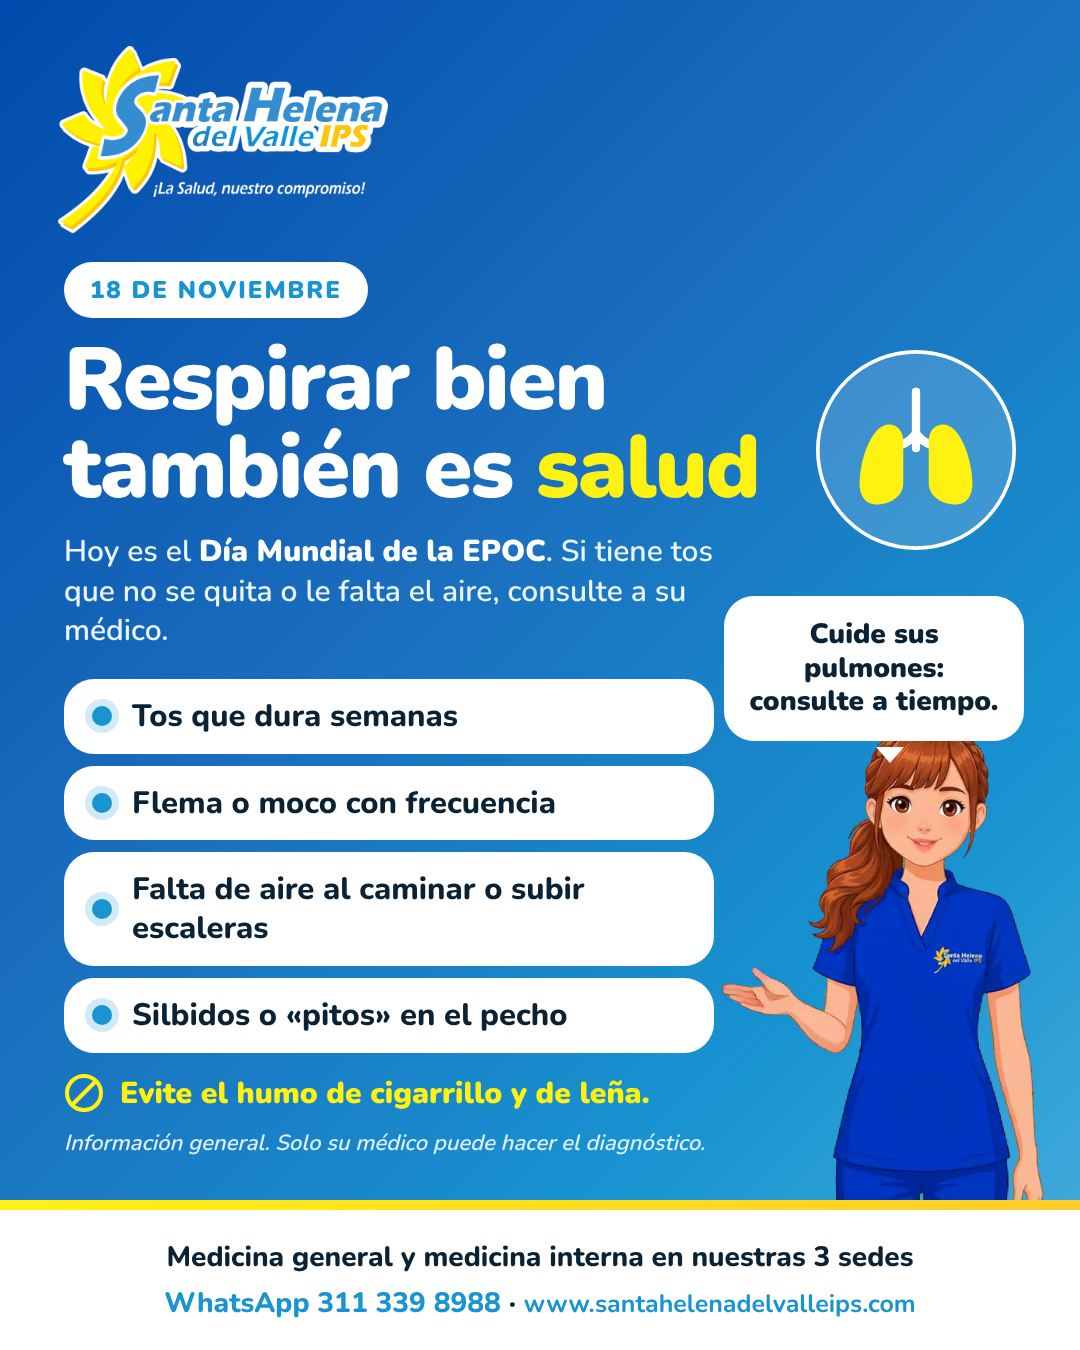
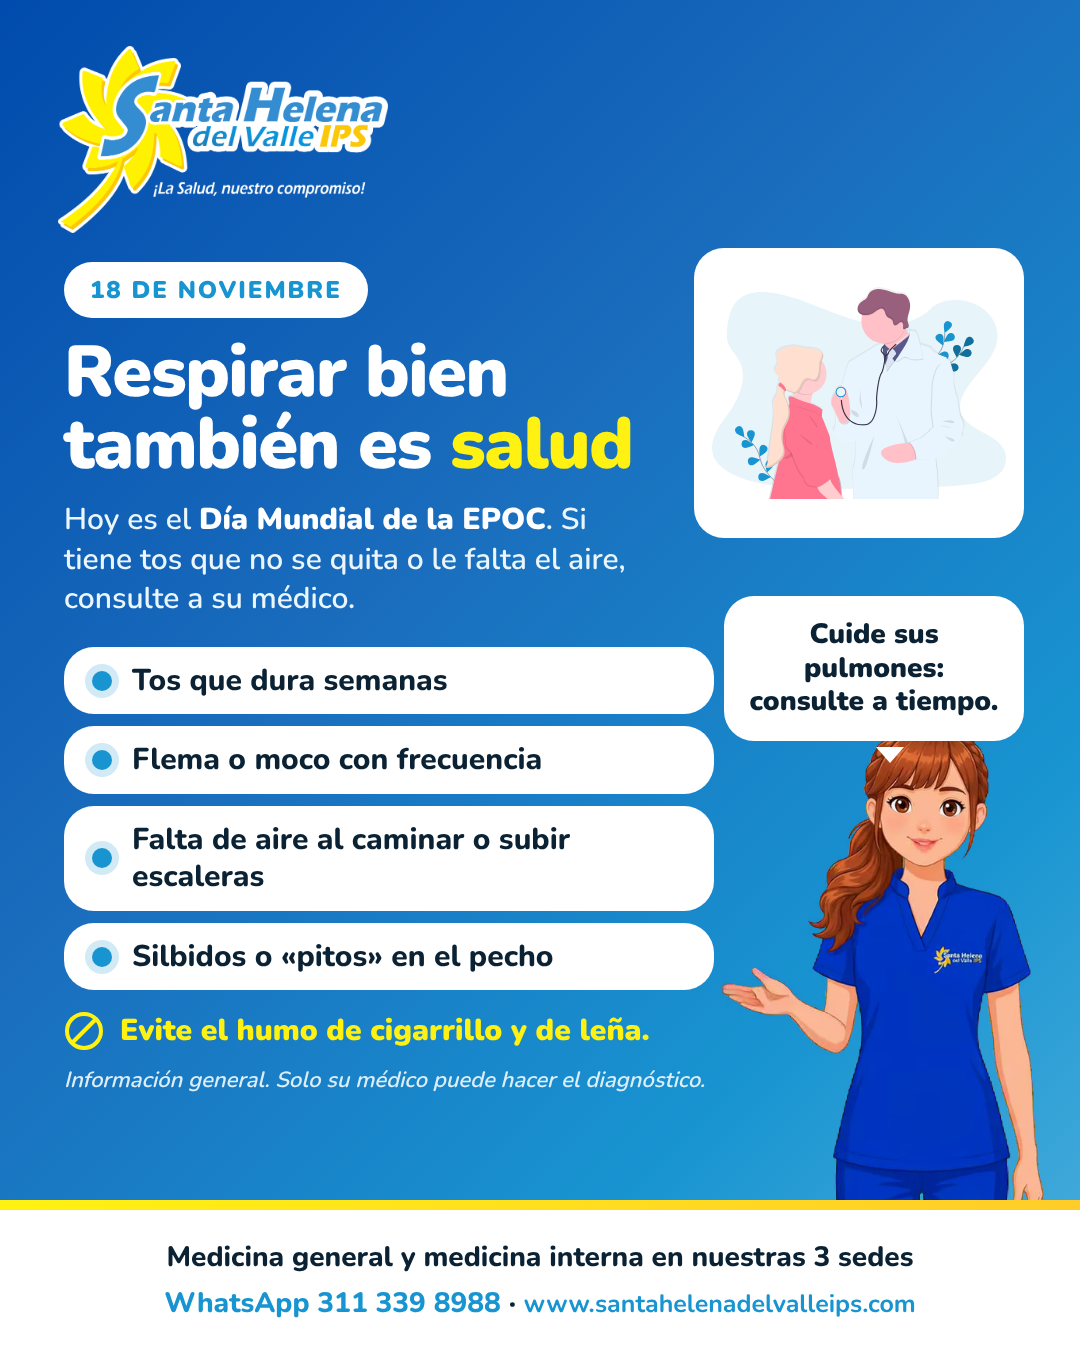
Post EPOC v2: ilustración de unDraw en lugar del ícono, antes y después
Claude-Session: https://claude.ai/code/session_01KgBCaN2Nb7mn6jAyyriR7q

Changed region(s): [[0.0611, 0.1867, 0.9472, 0.8711]]

diff --git a/entregas/creativo-instagram/2026-11-18-post-dia-epoc/fuente/post-v1-iconos.html b/entregas/creativo-instagram/2026-11-18-post-dia-epoc/fuente/post-v1-iconos.html
@@ -1,0 +1,56 @@
+<!doctype html><html lang="es"><head><meta charset="utf-8"><title>Post Día de la EPOC</title><style>
+/* Fuente provisional (parecida a Eras ITC) hasta recibir las oficiales */
+@font-face{font-family:"Provisional";src:url(img/nunito.woff2) format("woff2");font-weight:200 1000}
+*{margin:0;padding:0;box-sizing:border-box}
+body{background:#888;padding:30px}
+#post{width:1080px;height:1350px;position:relative;overflow:hidden;font-family:Provisional,sans-serif;color:#fff;
+ background:linear-gradient(135deg,#004BAD 0%,#1A6DBD 40%,#1894D1 75%,#4CAFDC 100%)}
+.logo{position:absolute;left:58px;top:46px;width:330px}
+.cont{position:absolute;left:64px;right:64px;top:262px}
+.tag{display:inline-block;background:#fff;color:#1894D1;font-weight:900;font-size:24px;letter-spacing:.08em;text-transform:uppercase;padding:12px 26px;border-radius:999px}
+h1{margin-top:18px;font-weight:900;font-size:88px;letter-spacing:-.02em;line-height:1}
+h1 span{color:#FFF212}
+.apoyo{margin-top:20px;width:700px;font-size:30px;line-height:1.32;font-weight:600;color:#EAF5FC}
+.apoyo b{color:#fff;font-weight:900}
+.icono{position:absolute;right:64px;top:350px;width:200px;height:200px}
+ul{list-style:none;margin-top:28px;width:650px;display:flex;flex-direction:column;gap:12px}
+li{background:#fff;color:#0A2233;border-radius:30px;padding:18px 28px;font-size:31px;line-height:1.25;font-weight:800;display:flex;gap:20px;align-items:center}
+li::before{content:"";flex:none;width:20px;height:20px;border-radius:50%;background:#1894D1;box-shadow:0 0 0 7px rgba(24,148,209,.2)}
+.humo{margin-top:20px;width:660px;display:flex;align-items:center;gap:16px;font-size:30px;font-weight:900;color:#FFF212}
+.nota{margin-top:14px;font-size:22px;font-style:italic;font-weight:600;color:#DCEEF8}
+.hel{position:absolute;right:-120px;bottom:96px;width:560px;height:560px;object-fit:contain}
+.globo{position:absolute;right:56px;top:596px;width:300px;background:#fff;color:#0A2233;border-radius:30px;padding:22px 24px;font-size:28px;line-height:1.2;font-weight:900;text-align:center}
+.globo::after{content:"";position:absolute;right:120px;bottom:-22px;border:14px solid transparent;border-top:16px solid #fff;border-bottom:0}
+.franja{position:absolute;left:0;right:0;bottom:0;height:140px;background:#fff;color:#0A2233;display:flex;flex-direction:column;justify-content:center;align-items:center;gap:8px;font-size:28px;font-weight:800}
+.franja .wa{color:#1894D1}
+.franja .web{font-size:25px;font-weight:700;color:#1894D1}
+.amarilla{position:absolute;left:0;right:0;bottom:140px;height:10px;background:linear-gradient(90deg,#FFF212,#FFCC29)}
+</style></head><body>
+<section id="post">
+  <img class="logo" src="img/logo-con-lema-transparente.png">
+  <div class="icono"><svg viewBox="0 0 220 220" width="200" height="200"><circle cx="110" cy="110" r="108" fill="rgba(255,255,255,.16)" stroke="#fff" stroke-width="4"/>
+    <path d="M110 46v62M110 92c-8 10-18 14-26 14M110 92c8 10 18 14 26 14" fill="none" stroke="#fff" stroke-width="9" stroke-linecap="round"/>
+    <path d="M96 100c0-10-6-18-16-18-16 0-30 30-32 62-1 16 6 26 18 26 14 0 30-8 30-24z" fill="#FFF212"/>
+    <path d="M124 100c0-10 6-18 16-18 16 0 30 30 32 62 1 16-6 26-18 26-14 0-30-8-30-24z" fill="#FFF212"/>
+    <path d="M110 46v54" fill="none" stroke="#fff" stroke-width="9" stroke-linecap="round"/></svg></div>
+  <div class="cont">
+    <span class="tag">18 de noviembre</span>
+    <h1>Respirar bien<br>también es <span>salud</span></h1>
+    <p class="apoyo">Hoy es el <b>Día Mundial de la EPOC</b>. Si tiene tos que no se quita o le falta el aire, consulte a su médico.</p>
+    <ul>
+      <li>Tos que dura semanas</li>
+      <li>Flema o moco con frecuencia</li>
+      <li>Falta de aire al caminar o subir escaleras</li>
+      <li>Silbidos o «pitos» en el pecho</li>
+    </ul>
+    <p class="humo"><svg width="40" height="40" viewBox="0 0 40 40"><circle cx="20" cy="20" r="17" fill="none" stroke="#FFF212" stroke-width="4"/><path d="M8 32L32 8" stroke="#FFF212" stroke-width="4"/></svg>Evite el humo de cigarrillo y de leña.</p>
+    <p class="nota">Información general. Solo su médico puede hacer el diagnóstico.</p>
+  </div>
+  <img class="hel" src="img/helenita-hablar.png">
+  <div class="globo">Cuide sus pulmones: consulte a tiempo.</div>
+  <div class="amarilla"></div>
+  <div class="franja">
+    <div>Medicina general y medicina interna en nuestras 3 sedes</div>
+    <div><span class="wa">WhatsApp 311 339 8988</span> · <span class="web">www.santahelenadelvalleips.com</span></div>
+  </div>
+</section></body></html>

diff --git a/entregas/creativo-instagram/2026-11-18-post-dia-epoc/fuente/post.html b/entregas/creativo-instagram/2026-11-18-post-dia-epoc/fuente/post.html
@@ -10,11 +10,12 @@ body{background:#888;padding:30px}
 .tag{display:inline-block;background:#fff;color:#1894D1;font-weight:900;font-size:24px;letter-spacing:.08em;text-transform:uppercase;padding:12px 26px;border-radius:999px}
 h1{margin-top:18px;font-weight:900;font-size:88px;letter-spacing:-.02em;line-height:1}
 h1 span{color:#FFF212}
-.apoyo{margin-top:20px;width:700px;font-size:30px;line-height:1.32;font-weight:600;color:#EAF5FC}
+.apoyo{margin-top:20px;width:590px;font-size:30px;line-height:1.32;font-weight:600;color:#EAF5FC}
 .apoyo b{color:#fff;font-weight:900}
-.icono{position:absolute;right:64px;top:350px;width:200px;height:200px}
+.escena{position:absolute;right:56px;top:248px;width:330px;height:290px;background:#fff;border-radius:30px;padding:18px;display:flex;align-items:center;justify-content:center}
+.escena img{width:100%;height:100%;object-fit:contain}
 ul{list-style:none;margin-top:28px;width:650px;display:flex;flex-direction:column;gap:12px}
-li{background:#fff;color:#0A2233;border-radius:30px;padding:18px 28px;font-size:31px;line-height:1.25;font-weight:800;display:flex;gap:20px;align-items:center}
+li{background:#fff;color:#0A2233;border-radius:30px;padding:15px 28px;font-size:30px;line-height:1.25;font-weight:800;display:flex;gap:20px;align-items:center}
 li::before{content:"";flex:none;width:20px;height:20px;border-radius:50%;background:#1894D1;box-shadow:0 0 0 7px rgba(24,148,209,.2)}
 .humo{margin-top:20px;width:660px;display:flex;align-items:center;gap:16px;font-size:30px;font-weight:900;color:#FFF212}
 .nota{margin-top:14px;font-size:22px;font-style:italic;font-weight:600;color:#DCEEF8}
@@ -28,14 +29,10 @@ li::before{content:"";flex:none;width:20px;height:20px;border-radius:50%;backgro
 </style></head><body>
 <section id="post">
   <img class="logo" src="img/logo-con-lema-transparente.png">
-  <div class="icono"><svg viewBox="0 0 220 220" width="200" height="200"><circle cx="110" cy="110" r="108" fill="rgba(255,255,255,.16)" stroke="#fff" stroke-width="4"/>
-    <path d="M110 46v62M110 92c-8 10-18 14-26 14M110 92c8 10 18 14 26 14" fill="none" stroke="#fff" stroke-width="9" stroke-linecap="round"/>
-    <path d="M96 100c0-10-6-18-16-18-16 0-30 30-32 62-1 16 6 26 18 26 14 0 30-8 30-24z" fill="#FFF212"/>
-    <path d="M124 100c0-10 6-18 16-18 16 0 30 30 32 62 1 16-6 26-18 26-14 0-30-8-30-24z" fill="#FFF212"/>
-    <path d="M110 46v54" fill="none" stroke="#fff" stroke-width="9" stroke-linecap="round"/></svg></div>
+  <div class="escena"><img src="img/undraw-doctor.svg"></div>
   <div class="cont">
     <span class="tag">18 de noviembre</span>
-    <h1>Respirar bien<br>también es <span>salud</span></h1>
+    <h1 style="font-size:72px">Respirar bien<br>también es <span>salud</span></h1>
     <p class="apoyo">Hoy es el <b>Día Mundial de la EPOC</b>. Si tiene tos que no se quita o le falta el aire, consulte a su médico.</p>
     <ul>
       <li>Tos que dura semanas</li>

diff --git a/entregas/creativo-instagram/2026-11-18-post-dia-epoc/LEAME.md b/entregas/creativo-instagram/2026-11-18-post-dia-epoc/LEAME.md
@@ -5,7 +5,13 @@ Encargo directo del Agente Copies Redes con texto aprobado por Nicolas
 
 - `post-dia-epoc.png`: 1080 × 1350, con Helenita (pose hablar) y globo «Cuide sus pulmones: consulte a tiempo.».
 - Estilo del **manual de identidad oficial** (manda sobre los colores y letras del encargo): degradado azul
-  institucional, logo con contorno blanco y eslogan, tarjetas blancas con viñetas azul claro, ícono de pulmones
-  en amarillo claro, franja blanca con medicina general e interna, WhatsApp y web con www. Sin terapia respiratoria.
+  institucional, logo con contorno blanco y eslogan, tarjetas blancas con viñetas azul claro, ilustración de unDraw
+  («doctor», médico auscultando a una paciente, con sus colores naturales; acentos en azul claro), franja blanca con medicina general e interna, WhatsApp y web con www. Sin terapia respiratoria.
 - Tipografía **provisional** (Nunito) hasta recibir Eras Bold ITC y Eras Demi ITC.
 - `fuente/post.html`: diseño editable.
+
+## Versión 2 (18 nov 2026) · prueba de estilo con ilustración
+Pedido de Nicolas vía JARVIS: menos «ícono», más escenas. Se cambió el ícono de pulmones por la ilustración.
+- Licencia unDraw: uso libre, también comercial, sin pedir permiso ni dar crédito (undraw.co/license). Archivo
+  `fuente/img/undraw-doctor.svg` (original `doctor_aum1`, con el color de acento cambiado a #1894D1).
+- `antes-despues.png`: comparación. `post-dia-epoc-v1-iconos.png` y `fuente/post-v1-iconos.html`: versión anterior.
